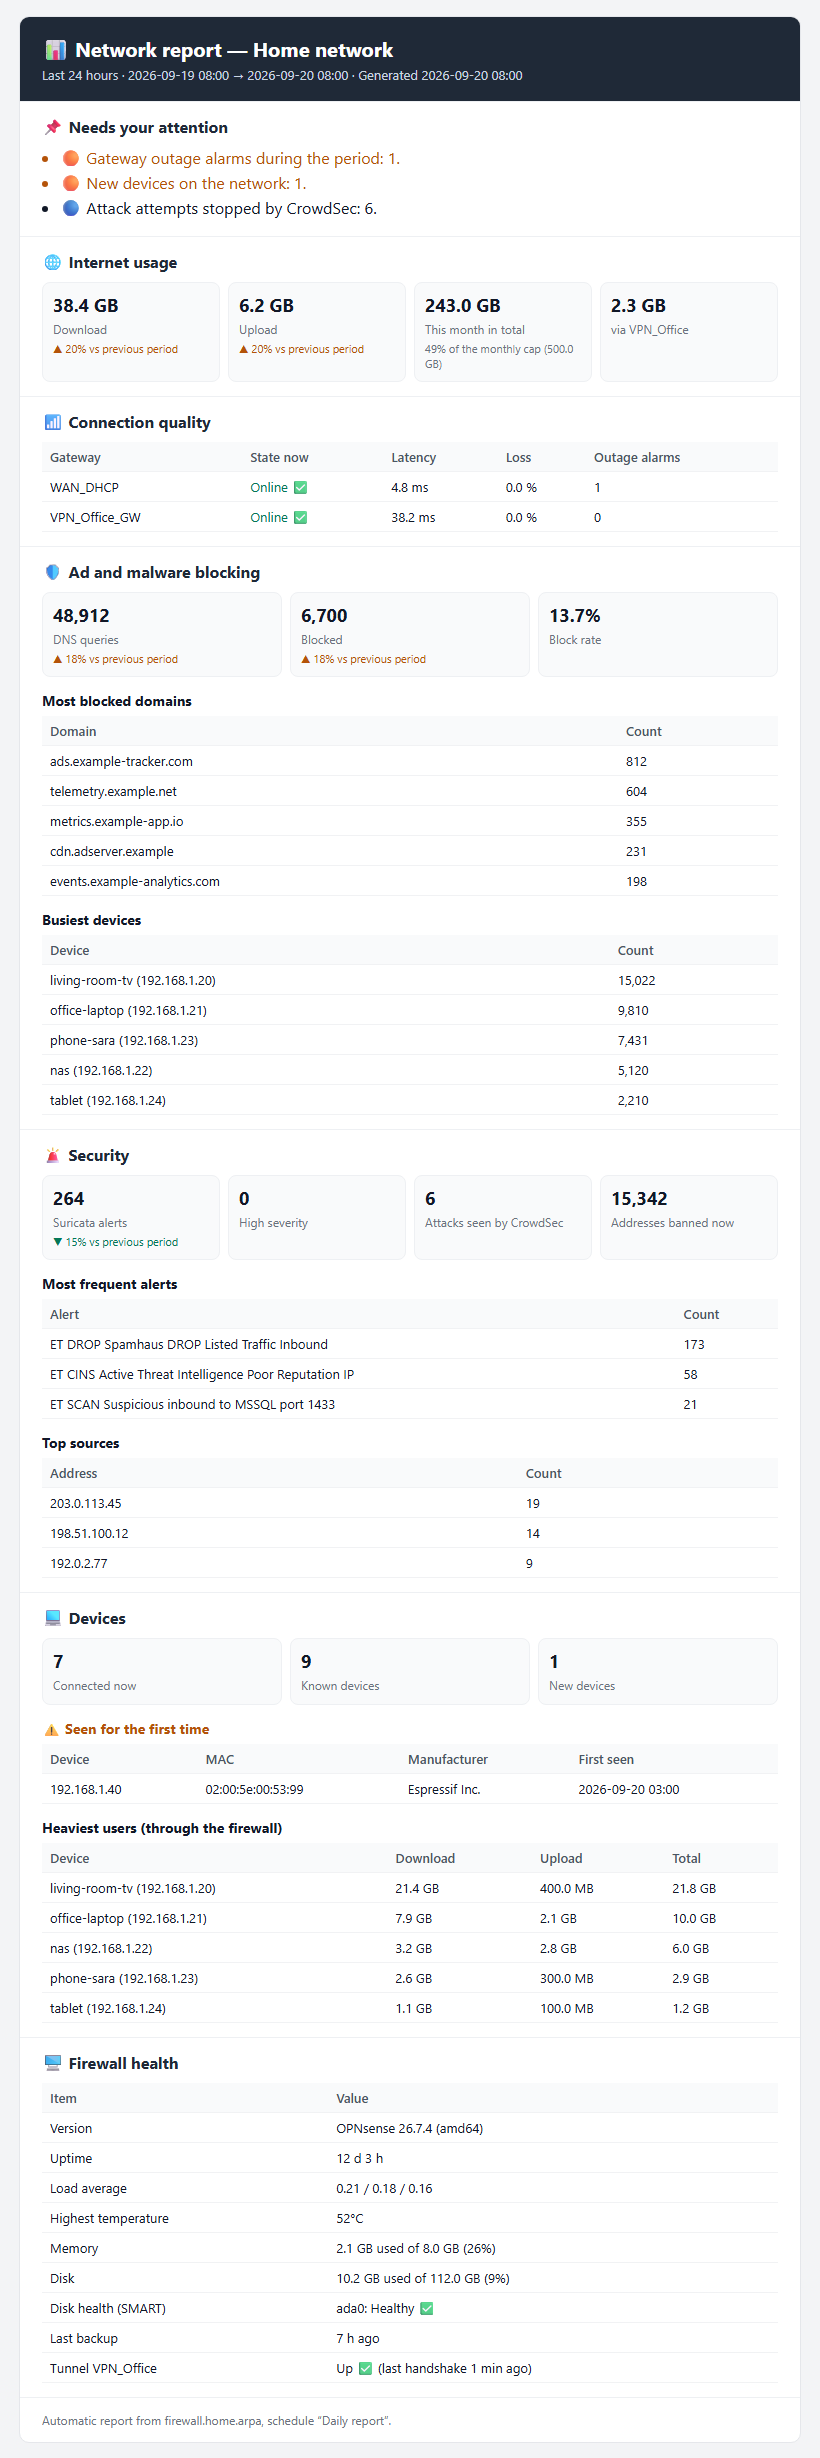
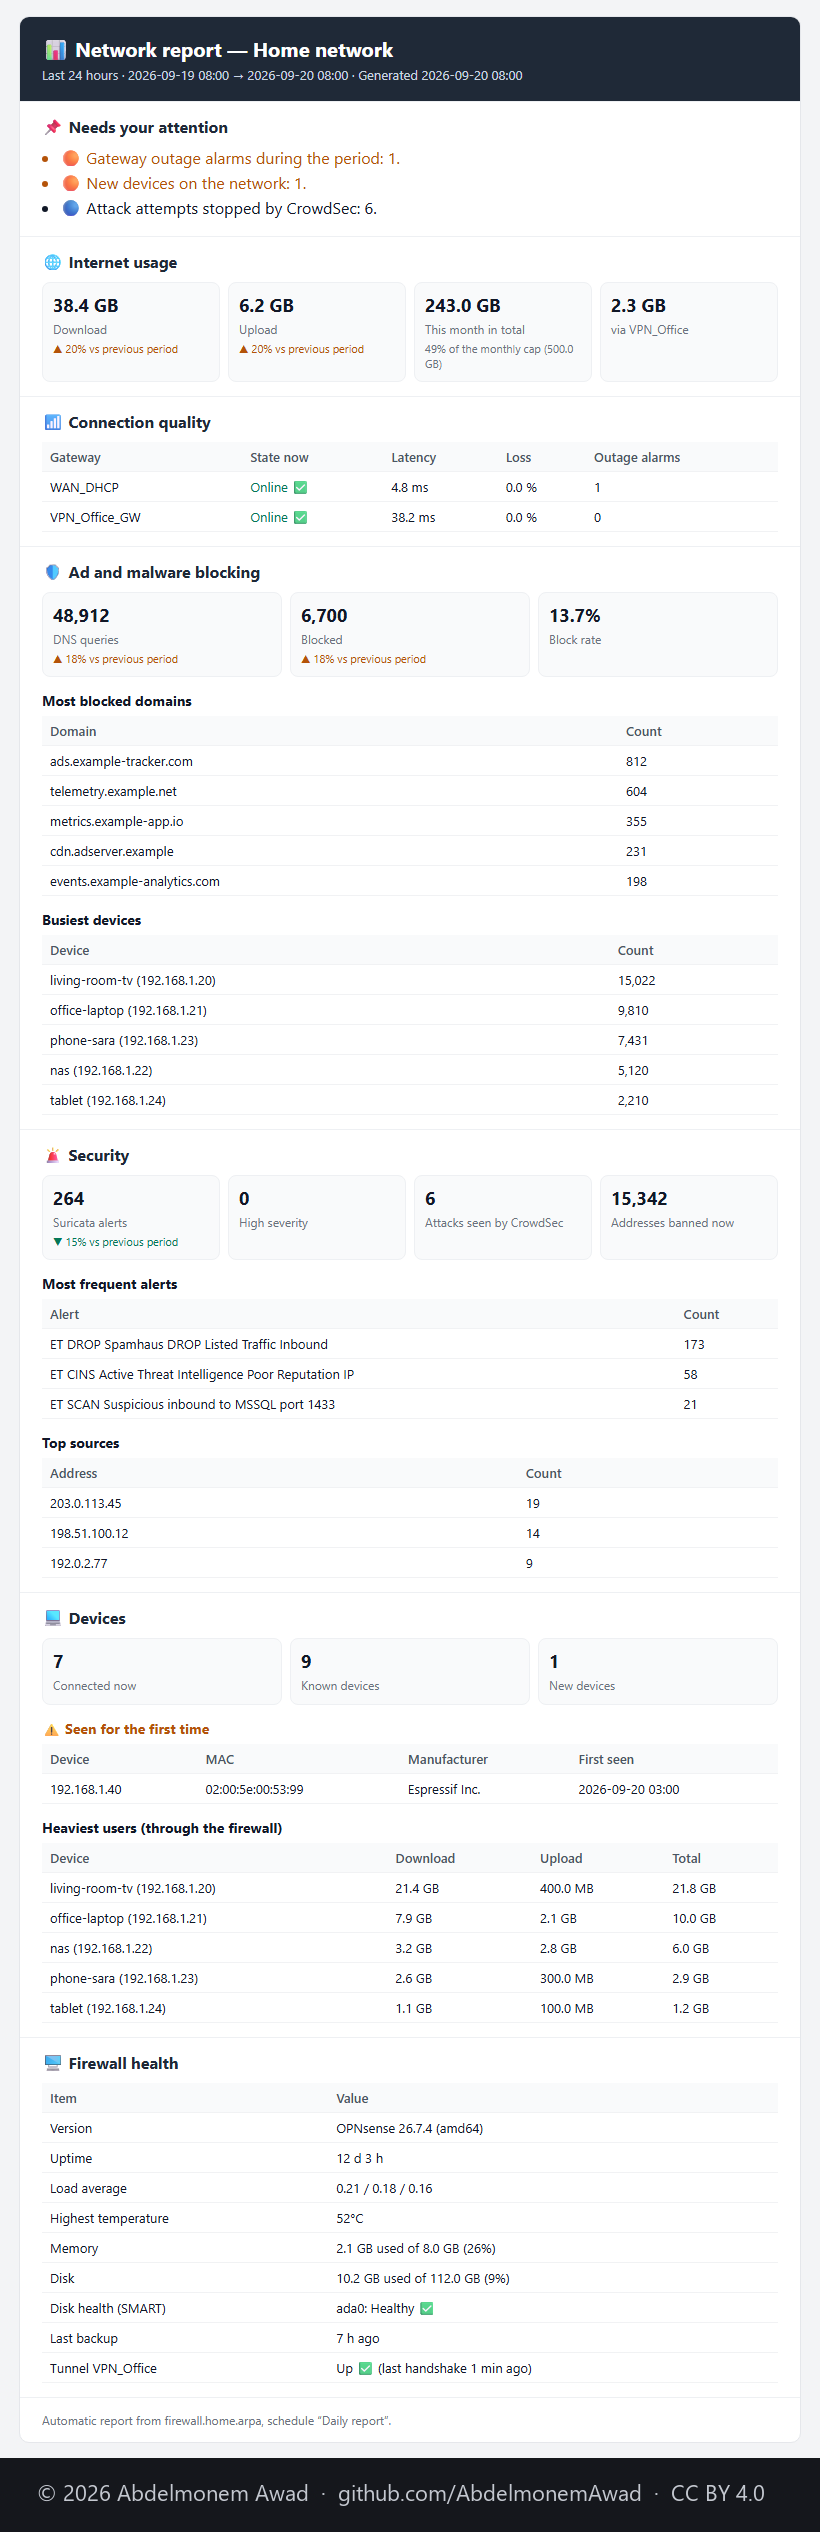
The images carry their owner and licence (CC BY 4.0) (#14)

diff --git a/README.md b/README.md
@@ -220,3 +220,5 @@ nothing, and the uninstaller removes the updater, its cron entry and the stamp.
 ## License
 
 BSD 2-Clause, the same as OPNsense. See [LICENSE](LICENSE).
+
+The photographs and screenshots under `docs/` are &copy; 2026 Abdelmonem Awad, under [CC BY 4.0](https://creativecommons.org/licenses/by/4.0/): use them freely, naming the author and linking here. Each carries that notice in a strip added below it.
